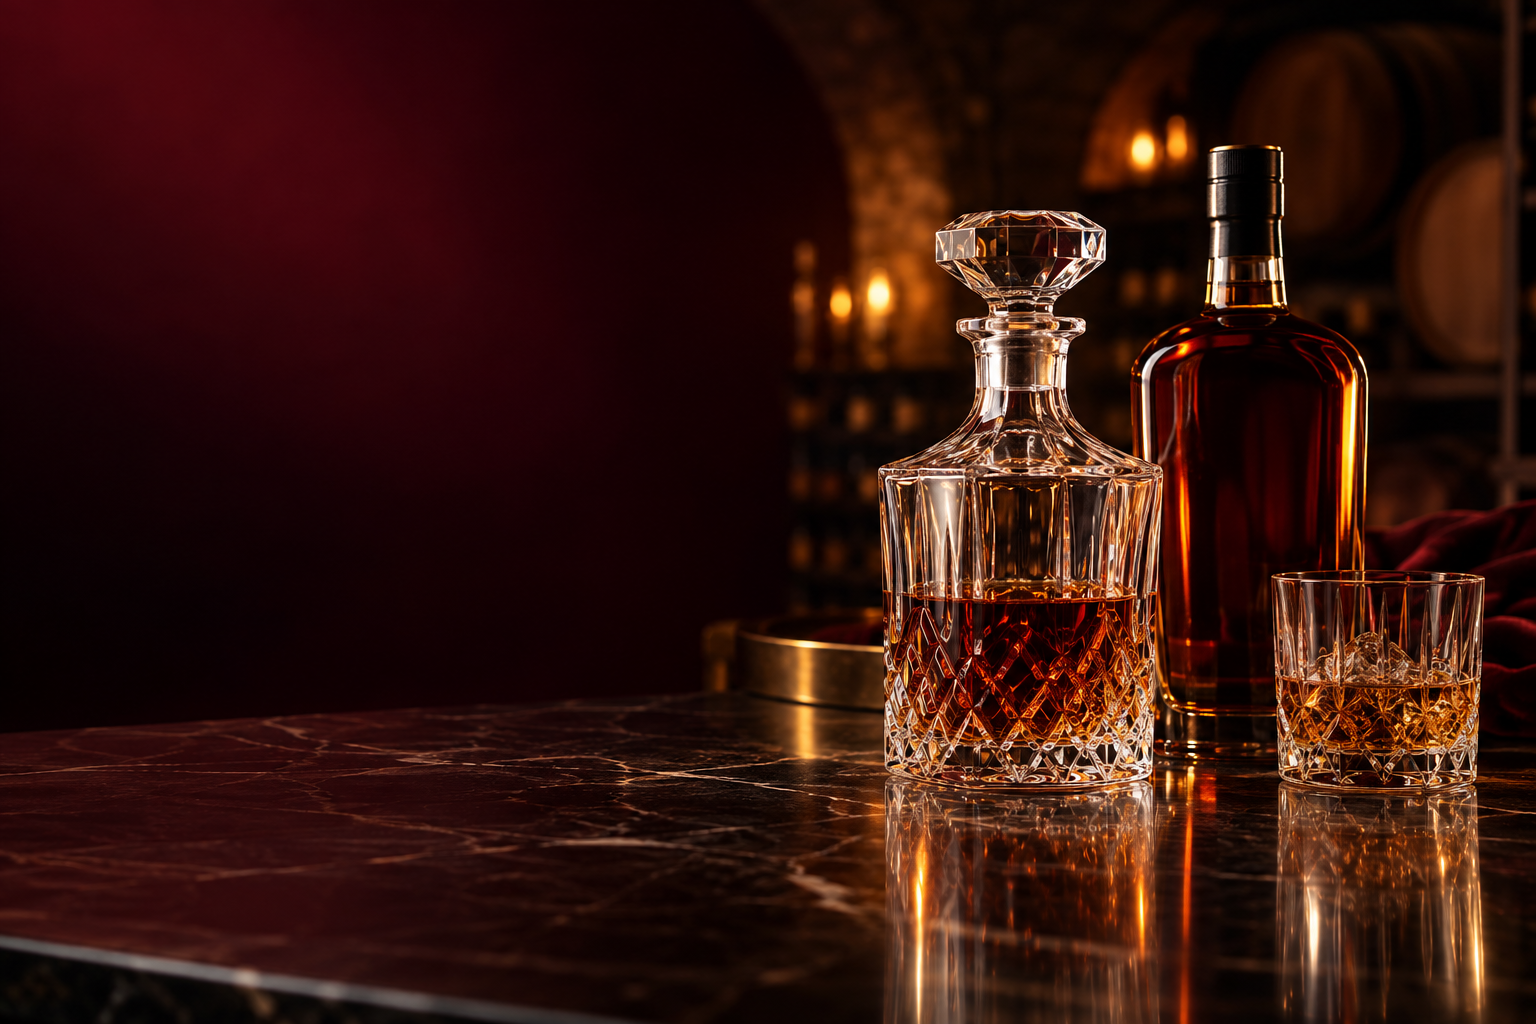
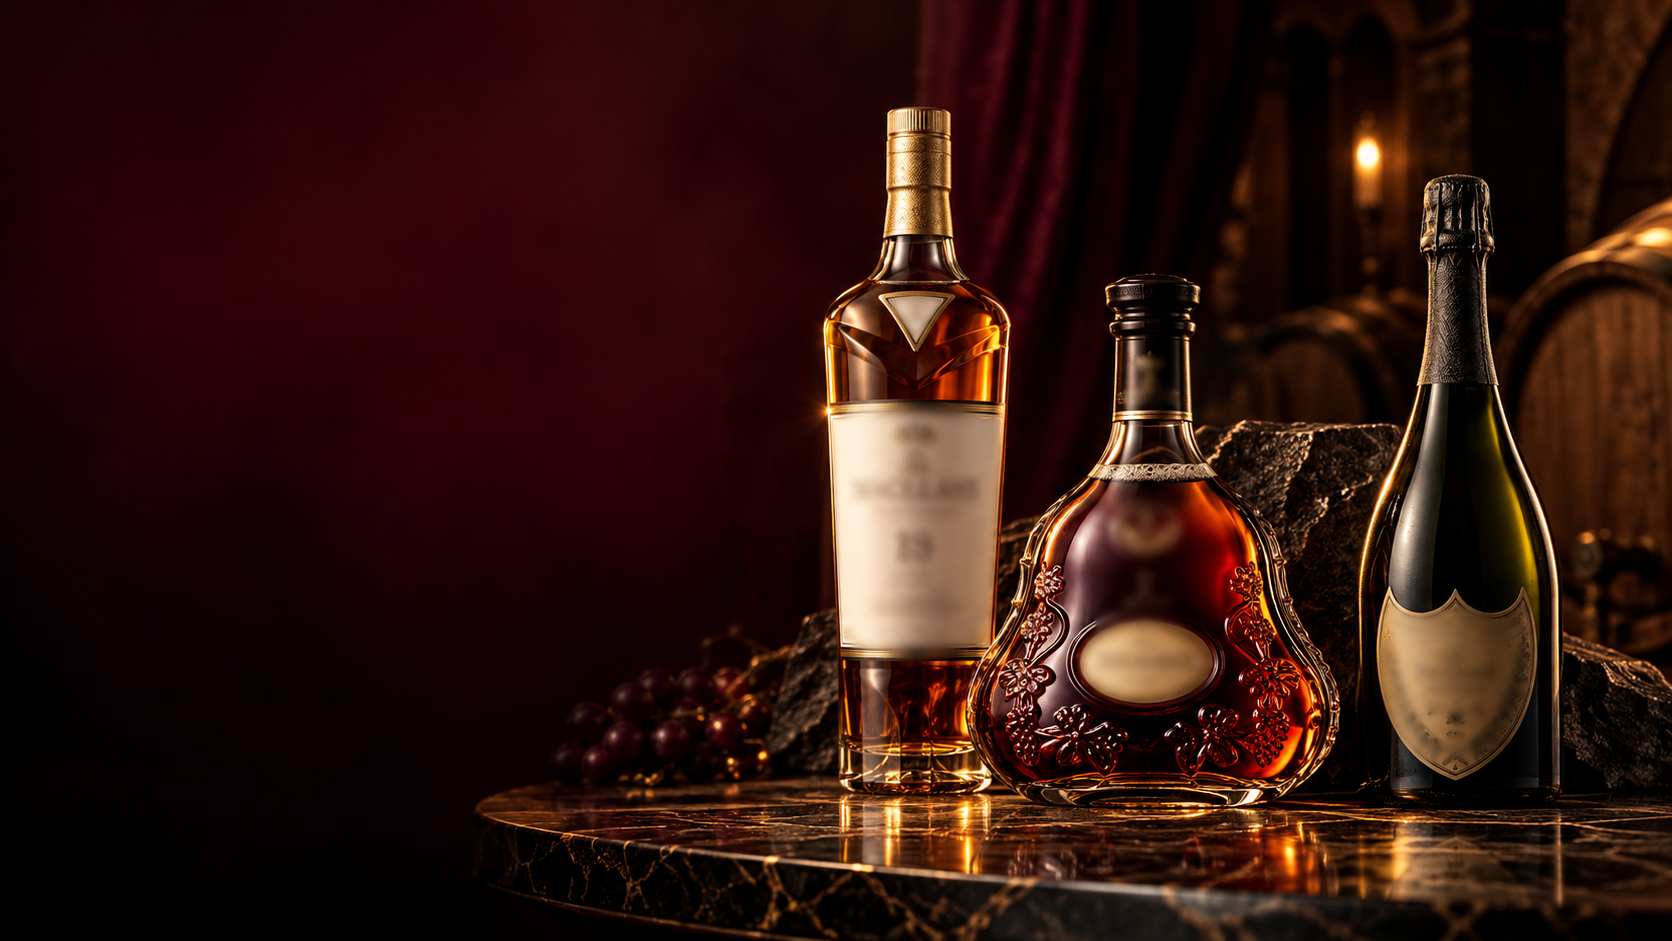
refine: feature recognizable premium brands in hero visual

diff --git a/src/data/seo.ts b/src/data/seo.ts
@@ -16,7 +16,7 @@ export const landingSeoByFile: Record<string, LandingSeo> = {
     description: 'Скупка элитного и коллекционного алкоголя в Москве. Бесплатно оценим вино, виски, коньяк или шампанское по фото и организуем выезд специалиста.',
     heading: 'Скупка и оценка элитного алкоголя в Москве',
     service: 'Выкуп элитного и коллекционного алкоголя',
-    imageAlt: 'Коллекционные бутылки элитного алкоголя',
+    imageAlt: 'Коллекционные Macallan, Hennessy и Dom Pérignon',
   },
   'page136045756.html': {
     route: '/buy_champagne',
